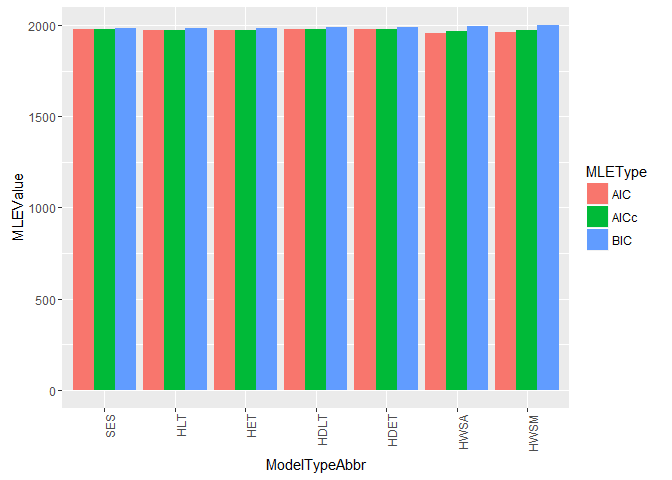
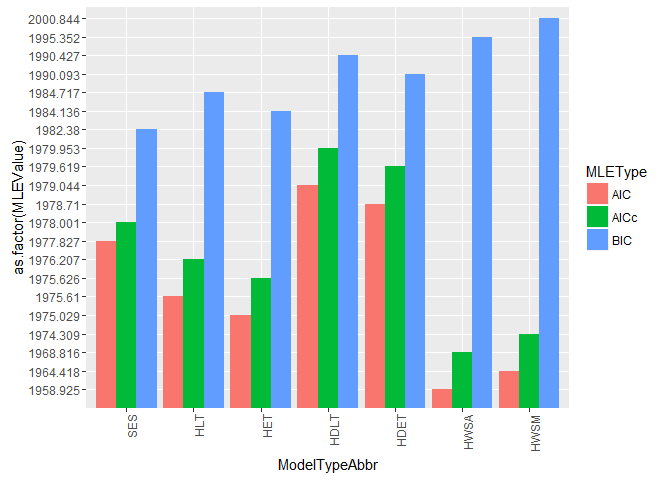
Test table font color

diff --git a/Paper/CaseStudy10_Paper.md b/Paper/CaseStudy10_Paper.md
@@ -364,13 +364,13 @@ Given that the Holt-Winters' Seasonal Additive and Simple Exponential
 Smoothing models have the smallest values, this is an early indicator
 that these models may be the best fit for Efak as-is data.
 
-<table style="width:328%;">
+<table style="width:474%;">
 <colgroup>
 <col width="62%" />
 <col width="20%" />
-<col width="81%" />
-<col width="81%" />
-<col width="80%" />
+<col width="87%" />
+<col width="151%" />
+<col width="151%" />
 </colgroup>
 <thead>
 <tr class="header">
@@ -386,50 +386,50 @@ that these models may be the best fit for Efak as-is data.
 <td align="right">Simple Exponential Smoothing</td>
 <td align="right">SES</td>
 <td align="right"><span>1977.827</span></td>
-<td align="right"><span>1978.001</span></td>
-<td align="right"><span style="background-color:LightGreen">1982.38</span></td>
+<td align="right"><span style="display: block; padding: 0 4px; border-radius: 4px; background-color: #ebfceb">1978.001</span></td>
+<td align="right"><span style="display: block; padding: 0 4px; border-radius: 4px; background-color: #90ee90">1982.38</span></td>
 </tr>
 <tr class="even">
 <td align="right">Holt's Linear Trend</td>
 <td align="right">HLT</td>
 <td align="right"><span>1975.61</span></td>
-<td align="right"><span>1976.207</span></td>
-<td align="right"><span>1984.717</span></td>
+<td align="right"><span style="display: block; padding: 0 4px; border-radius: 4px; background-color: #d9f9d9">1976.207</span></td>
+<td align="right"><span style="display: block; padding: 0 4px; border-radius: 4px; background-color: #9ef09e">1984.717</span></td>
 </tr>
 <tr class="odd">
 <td align="right">Holt's Exponential Trend</td>
 <td align="right">HET</td>
 <td align="right"><span>1975.029</span></td>
-<td align="right"><span>1975.626</span></td>
-<td align="right"><span>1984.136</span></td>
+<td align="right"><span style="display: block; padding: 0 4px; border-radius: 4px; background-color: #d3f8d3">1975.626</span></td>
+<td align="right"><span style="display: block; padding: 0 4px; border-radius: 4px; background-color: #9aef9a">1984.136</span></td>
 </tr>
 <tr class="even">
 <td align="right">Holt's Damped Linear Trend</td>
 <td align="right">HDLT</td>
 <td align="right"><span>1979.044</span></td>
-<td align="right"><span>1979.953</span></td>
-<td align="right"><span>1990.427</span></td>
+<td align="right"><span style="display: block; padding: 0 4px; border-radius: 4px; background-color: #ffffff">1979.953</span></td>
+<td align="right"><span style="display: block; padding: 0 4px; border-radius: 4px; background-color: #c0f5c0">1990.427</span></td>
 </tr>
 <tr class="odd">
 <td align="right">Holt's Damped Exponential Trend</td>
 <td align="right">HDET</td>
 <td align="right"><span>1978.71</span></td>
-<td align="right"><span>1979.619</span></td>
-<td align="right"><span>1990.093</span></td>
+<td align="right"><span style="display: block; padding: 0 4px; border-radius: 4px; background-color: #fbfefb">1979.619</span></td>
+<td align="right"><span style="display: block; padding: 0 4px; border-radius: 4px; background-color: #bef5be">1990.093</span></td>
 </tr>
 <tr class="even">
 <td align="right">Holt Winters' Seasonal Additive Model</td>
 <td align="right">HWSA</td>
-<td align="right"><span style="background-color:LightGreen">1958.925</span></td>
-<td align="right"><span style="background-color:LightGreen">1968.816</span></td>
-<td align="right"><span>1995.352</span></td>
+<td align="right"><span style="color: green; font-weight: bold">1958.925</span></td>
+<td align="right"><span style="display: block; padding: 0 4px; border-radius: 4px; background-color: #90ee90">1968.816</span></td>
+<td align="right"><span style="display: block; padding: 0 4px; border-radius: 4px; background-color: #ddf9dd">1995.352</span></td>
 </tr>
 <tr class="odd">
 <td align="right">Holt Winters' Seasonal Multiplicative Model</td>
 <td align="right">HWSM</td>
 <td align="right"><span>1964.418</span></td>
-<td align="right"><span>1974.309</span></td>
-<td align="right"><span>2000.844</span></td>
+<td align="right"><span style="display: block; padding: 0 4px; border-radius: 4px; background-color: #c6f6c6">1974.309</span></td>
+<td align="right"><span style="display: block; padding: 0 4px; border-radius: 4px; background-color: #ffffff">2000.844</span></td>
 </tr>
 </tbody>
 </table>
@@ -445,155 +445,10 @@ value. For these reasons, it is important to consider all available
 measures holistically as will be done further momentarily.
 
     ModelMLEMelt<-melt(ModelMLE, id.vars = c("ModelType","ModelTypeAbbr"),variable.name="MLEType",value.name = "MLEValue")
-    formattable(ModelMLEMelt)
+    #formattable(ModelMLEMelt)
 
-<table style="width:110%;">
-<colgroup>
-<col width="62%" />
-<col width="20%" />
-<col width="12%" />
-<col width="13%" />
-</colgroup>
-<thead>
-<tr class="header">
-<th align="right">ModelType</th>
-<th align="right">ModelTypeAbbr</th>
-<th align="right">MLEType</th>
-<th align="right">MLEValue</th>
-</tr>
-</thead>
-<tbody>
-<tr class="odd">
-<td align="right">Simple Exponential Smoothing</td>
-<td align="right">SES</td>
-<td align="right">AIC</td>
-<td align="right">1977.827</td>
-</tr>
-<tr class="even">
-<td align="right">Holt's Linear Trend</td>
-<td align="right">HLT</td>
-<td align="right">AIC</td>
-<td align="right">1975.610</td>
-</tr>
-<tr class="odd">
-<td align="right">Holt's Exponential Trend</td>
-<td align="right">HET</td>
-<td align="right">AIC</td>
-<td align="right">1975.029</td>
-</tr>
-<tr class="even">
-<td align="right">Holt's Damped Linear Trend</td>
-<td align="right">HDLT</td>
-<td align="right">AIC</td>
-<td align="right">1979.044</td>
-</tr>
-<tr class="odd">
-<td align="right">Holt's Damped Exponential Trend</td>
-<td align="right">HDET</td>
-<td align="right">AIC</td>
-<td align="right">1978.710</td>
-</tr>
-<tr class="even">
-<td align="right">Holt Winters' Seasonal Additive Model</td>
-<td align="right">HWSA</td>
-<td align="right">AIC</td>
-<td align="right">1958.925</td>
-</tr>
-<tr class="odd">
-<td align="right">Holt Winters' Seasonal Multiplicative Model</td>
-<td align="right">HWSM</td>
-<td align="right">AIC</td>
-<td align="right">1964.418</td>
-</tr>
-<tr class="even">
-<td align="right">Simple Exponential Smoothing</td>
-<td align="right">SES</td>
-<td align="right">AICc</td>
-<td align="right">1978.001</td>
-</tr>
-<tr class="odd">
-<td align="right">Holt's Linear Trend</td>
-<td align="right">HLT</td>
-<td align="right">AICc</td>
-<td align="right">1976.207</td>
-</tr>
-<tr class="even">
-<td align="right">Holt's Exponential Trend</td>
-<td align="right">HET</td>
-<td align="right">AICc</td>
-<td align="right">1975.626</td>
-</tr>
-<tr class="odd">
-<td align="right">Holt's Damped Linear Trend</td>
-<td align="right">HDLT</td>
-<td align="right">AICc</td>
-<td align="right">1979.953</td>
-</tr>
-<tr class="even">
-<td align="right">Holt's Damped Exponential Trend</td>
-<td align="right">HDET</td>
-<td align="right">AICc</td>
-<td align="right">1979.619</td>
-</tr>
-<tr class="odd">
-<td align="right">Holt Winters' Seasonal Additive Model</td>
-<td align="right">HWSA</td>
-<td align="right">AICc</td>
-<td align="right">1968.816</td>
-</tr>
-<tr class="even">
-<td align="right">Holt Winters' Seasonal Multiplicative Model</td>
-<td align="right">HWSM</td>
-<td align="right">AICc</td>
-<td align="right">1974.309</td>
-</tr>
-<tr class="odd">
-<td align="right">Simple Exponential Smoothing</td>
-<td align="right">SES</td>
-<td align="right">BIC</td>
-<td align="right">1982.380</td>
-</tr>
-<tr class="even">
-<td align="right">Holt's Linear Trend</td>
-<td align="right">HLT</td>
-<td align="right">BIC</td>
-<td align="right">1984.717</td>
-</tr>
-<tr class="odd">
-<td align="right">Holt's Exponential Trend</td>
-<td align="right">HET</td>
-<td align="right">BIC</td>
-<td align="right">1984.136</td>
-</tr>
-<tr class="even">
-<td align="right">Holt's Damped Linear Trend</td>
-<td align="right">HDLT</td>
-<td align="right">BIC</td>
-<td align="right">1990.427</td>
-</tr>
-<tr class="odd">
-<td align="right">Holt's Damped Exponential Trend</td>
-<td align="right">HDET</td>
-<td align="right">BIC</td>
-<td align="right">1990.093</td>
-</tr>
-<tr class="even">
-<td align="right">Holt Winters' Seasonal Additive Model</td>
-<td align="right">HWSA</td>
-<td align="right">BIC</td>
-<td align="right">1995.352</td>
-</tr>
-<tr class="odd">
-<td align="right">Holt Winters' Seasonal Multiplicative Model</td>
-<td align="right">HWSM</td>
-<td align="right">BIC</td>
-<td align="right">2000.844</td>
-</tr>
-</tbody>
-</table>
-
-    ggplot(ModelMLEMelt, aes(x = ModelTypeAbbr,y=MLEValue, fill = MLEType)) +
-    geom_bar(stat="identity" ,position=position_dodge())+
+    ggplot(ModelMLEMelt, aes(x = ModelTypeAbbr,y=as.factor(MLEValue), fill = MLEType)) +
+    geom_bar(stat="identity" ,position=position_dodge()) +
     theme(axis.text.x = element_text(angle = 90, hjust = 1))
 
 ![](CaseStudy10_Paper_files/figure-markdown_strict/PlotModelMLE-1.png)<!-- -->
@@ -610,11 +465,11 @@ this analysis are:
 -   Mean Absolute Scaled Error (MASE)
 -   Autocorrelation of Errors at Lag 1 (ACF1)
 
-<table style="width:808%;">
+<table style="width:739%;">
 <colgroup>
 <col width="62%" />
 <col width="20%" />
-<col width="162%" />
+<col width="93%" />
 <col width="93%" />
 <col width="91%" />
 <col width="94%" />
@@ -639,7 +494,7 @@ this analysis are:
 <tr class="odd">
 <td align="right">Simple Exponential Smoothing</td>
 <td align="right">SES</td>
-<td align="right"><span style="display: block; padding: 0 4px; border-radius: 4px; background-color: #ff0000">28255.5686974526</span></td>
+<td align="right"><span>28255.5686974526</span></td>
 <td align="right"><span>105746.360129531</span></td>
 <td align="right"><span>83785.2828519739</span></td>
 <td align="right"><span>1.61853223242804</span></td>
@@ -650,7 +505,7 @@ this analysis are:
 <tr class="even">
 <td align="right">Holt's Linear Trend</td>
 <td align="right">HLT</td>
-<td align="right"><span style="display: block; padding: 0 4px; border-radius: 4px; background-color: #ff8f8f">12981.2433596182</span></td>
+<td align="right"><span>12981.2433596182</span></td>
 <td align="right"><span>101278.188624904</span></td>
 <td align="right"><span>78180.9067417175</span></td>
 <td align="right"><span>-0.340566842511862</span></td>
@@ -661,7 +516,7 @@ this analysis are:
 <tr class="odd">
 <td align="right">Holt's Exponential Trend</td>
 <td align="right">HET</td>
-<td align="right"><span style="display: block; padding: 0 4px; border-radius: 4px; background-color: #ffffff">1027.78652647737</span></td>
+<td align="right"><span style="background-color:LightGreen">1027.78652647737</span></td>
 <td align="right"><span>99625.5017561852</span></td>
 <td align="right"><span>76933.689013667</span></td>
 <td align="right"><span>-2.06954107376868</span></td>
@@ -672,7 +527,7 @@ this analysis are:
 <tr class="even">
 <td align="right">Holt's Damped Linear Trend</td>
 <td align="right">HDLT</td>
-<td align="right"><span style="display: block; padding: 0 4px; border-radius: 4px; background-color: #ff7676">15606.5778392227</span></td>
+<td align="right"><span>15606.5778392227</span></td>
 <td align="right"><span>102291.450636505</span></td>
 <td align="right"><span>78689.5495981111</span></td>
 <td align="right"><span>0.0337457920377457</span></td>
@@ -683,7 +538,7 @@ this analysis are:
 <tr class="odd">
 <td align="right">Holt's Damped Exponential Trend</td>
 <td align="right">HDET</td>
-<td align="right"><span style="display: block; padding: 0 4px; border-radius: 4px; background-color: #ffebeb">3135.94744889523</span></td>
+<td align="right"><span>3135.94744889523</span></td>
 <td align="right"><span>101334.425371825</span></td>
 <td align="right"><span>77773.9332302407</span></td>
 <td align="right"><span style="background-color:LightGreen">-2.42405176641859</span></td>
@@ -694,7 +549,7 @@ this analysis are:
 <tr class="even">
 <td align="right">Holt Winters' Seasonal Additive Model</td>
 <td align="right">HWSA</td>
-<td align="right"><span style="display: block; padding: 0 4px; border-radius: 4px; background-color: #ffb7b7">8710.85874215872</span></td>
+<td align="right"><span>8710.85874215872</span></td>
 <td align="right"><span style="background-color:LightGreen">76350.8064264007</span></td>
 <td align="right"><span style="background-color:LightGreen">61147.927199533</span></td>
 <td align="right"><span>-0.25190171993221</span></td>
@@ -705,7 +560,7 @@ this analysis are:
 <tr class="odd">
 <td align="right">Holt Winters' Seasonal Multiplicative Model</td>
 <td align="right">HWSM</td>
-<td align="right"><span style="display: block; padding: 0 4px; border-radius: 4px; background-color: #ffcece">6211.72593543445</span></td>
+<td align="right"><span>6211.72593543445</span></td>
 <td align="right"><span>83390.079343758</span></td>
 <td align="right"><span>64171.9936778028</span></td>
 <td align="right"><span>-0.617499794149056</span></td>
